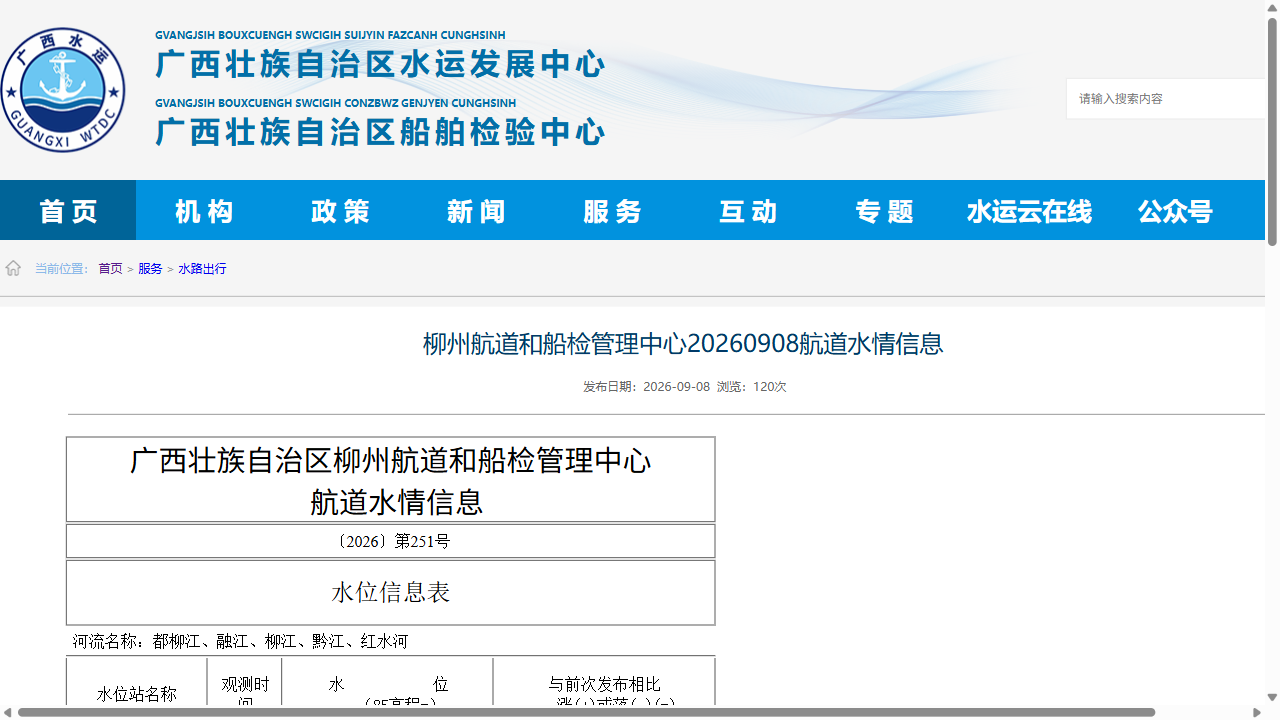
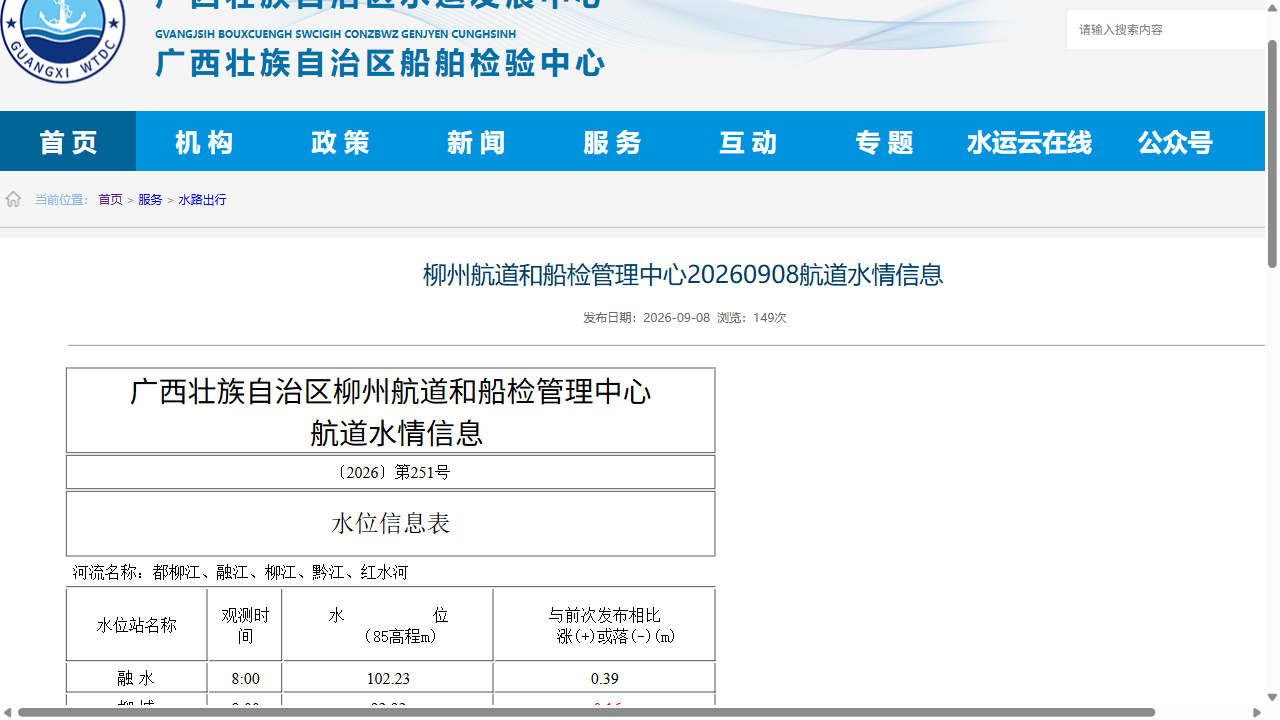
实现水库预警信息显示

diff --git a/water_level_report.html b/water_level_report.html
@@ -90,7 +90,7 @@
             font-weight: bold;
         }
         .warningStatus-value {
-            font-size: 30px;
+            font-size: 28px;
             font-weight: bold;
             color: red;
         }
@@ -124,13 +124,13 @@
         }
         .wz {
             position: absolute;
-            top: 32%;
-            left: 87%;
+            top: 52%;
+            left: 92.5%;
         }
         .jk {
             position: absolute;
             top: 52%;
-            left: 69%;  
+            left: 68%;  
         }
         .wx {
             position: absolute;
@@ -189,7 +189,7 @@
             <div class="status-item">
                 <span class="status-label">🚨水库预警：</span>
                 <span class="warningStatus-value">
-                    
+                     大藤峡枢纽、桂平枢纽、长洲枢纽出库流量更大，可能正在放水。请及时注意水位变化，加强船舶调度！
                 </span>
             </div>
             <div class="status-item">
@@ -202,9 +202,9 @@
         
         <div class="image-section">
             <div class="image-overlay-text wz status-red">5.86m▲</div>
-            <div class="image-overlay-text status-red" style="position: absolute; top: 41.4%; left: 78%;">======</div>
+            <div class="image-overlay-text status-red" style="position: absolute;top: 41.25%;left: 86.7%;">====</div>
             <div class="image-overlay-text jk status-blue">21.75m▼</div>
-            <div class="image-overlay-text status-blue" style="position: absolute; top: 41.4%; left: 65.2%;">===</div>
+            <div class="image-overlay-text status-blue" style="position: absolute; top: 41.4%; left: 64%;">==</div>
             <div class="image-overlay-text wx status-blue">59.38m▼</div>
             <div class="image-overlay-text status-blue" style="position: absolute; top: 18.9%; left: 23.2%;">===========</div>
             <div class="image-overlay-text lb status-blue">59.72m▼</div>
@@ -219,7 +219,10 @@
             <div class="image-overlay-text" style="position: absolute;top: 20%;left: 8.6%;font-size:200%"> </div>
             <div class="image-overlay-text" style="position: absolute; top: 65%; left: 12%;font-size:200%"> </div>
             <div class="image-overlay-text" style="position: absolute; top: 65%; left: 45%;font-size:200%"> </div>
-            <img src="river.png" alt="西江流域图">
+            <div class="image-overlay-text" style="position: absolute; top: 42.5%; left: 86.5%;font-size:200%">🌊</div>
+            <div class="image-overlay-text" style="position: absolute; top: 42.5%; left: 69.67%;font-size:200%">🌊</div>
+            <div class="image-overlay-text" style="position: absolute;top: 43%;left: 79%;font-size: 180%;">🌊</div>
+            <img src="river.jpg" alt="西江流域图">
         </div>
         
         <div class="table-section">
@@ -323,7 +326,7 @@
         </div>
         
         <div class="timestamp">
-            报告生成时间: 2026-09-08 15:55:49<br>
+            报告生成时间: 2026-09-08 17:16:30<br>
             数据记录数: 8 条
         </div>
     </div>

diff --git a/screenshot.py b/screenshot.py
@@ -117,7 +117,7 @@ def generate_html_report(data):
             font-weight: bold;
         }}
         .warningStatus-value {{
-            font-size: 30px;
+            font-size: 28px;
             font-weight: bold;
             color: red;
         }}
@@ -151,13 +151,13 @@ def generate_html_report(data):
         }}
         .wz {{
             position: absolute;
-            top: 32%;
-            left: 87%;
+            top: 52%;
+            left: 92.5%;
         }}
         .jk {{
             position: absolute;
             top: 52%;
-            left: 69%;  
+            left: 68%;  
         }}
         .wx {{
             position: absolute;
@@ -194,8 +194,9 @@ def generate_html_report(data):
 
     # 按时间排序数据
     sorted_data = sorted(data, key=lambda x: x['时间'])
+
     # 测试输出
-    print(sorted_data)
+    #print(sorted_data)
 
     # 获取最新数据的上游状态、所有站点状态
     if sorted_data:
@@ -232,11 +233,15 @@ def generate_html_report(data):
         latest_guigang_desc = sorted_data[-1].get('站点数据',{}).get('贵港', {}).get('情况', '暂无数据')
         latest_guigang_data = sorted_data[-1].get('站点数据',{}).get('贵港', {}).get('水位', '0')
         latest_guigang_change = sorted_data[-1].get('站点数据',{}).get('贵港', {}).get('变化值', '0')
-    else:
-        latest_upstream_color = 'blue'
-        latest_upstream_desc = '暂无数据'
-        latest_wuzhou_color = 'blue'
-        latest_wuzhou_desc = '暂无数据'
+
+        latest_datengxia_data = sorted_data[-1].get('枢纽数据',{}).get('大藤峡枢纽', {}).get('上游水位', '0')
+        latest_datengxia_fs = sorted_data[-1].get('枢纽数据',{}).get('大藤峡枢纽', {}).get('是否放水', '0')
+
+        latest_guiping_data = sorted_data[-1].get('枢纽数据',{}).get('桂平船闸', {}).get('上游水位', '0')
+        latest_guiping_fs = sorted_data[-1].get('枢纽数据',{}).get('桂平船闸', {}).get('是否放水', '0')
+
+        latest_changzhou_data = sorted_data[-1].get('枢纽数据',{}).get('长洲船闸', {}).get('上游水位', '0')
+        latest_changzhou_fs = sorted_data[-1].get('枢纽数据',{}).get('长洲船闸', {}).get('是否放水', '0')
 
     #计算预报值 如果变化幅度过小就上下略微波动 否则梧州预计变化值在上游最新总变化值0.35到0.65之间
     latest_wuzhou_data_float = float(latest_wuzhou_data)  # 转换为浮点数
@@ -415,6 +420,57 @@ def generate_html_report(data):
 
     if station_warning != ' ':
         station_warning += '请及时注意水位变化，加强船舶调度！'
+
+    #水库预警文字
+    reservoir_warning = ' '
+
+    latest_datengxia_wSymbol = ' '
+    latest_guiping_wSymbol = ' '
+    latest_changzhou_wSymbol = ' '
+    #水库是否需要水位警告符号
+    r1 = 0
+    if float(latest_datengxia_data) >= 60:
+        #<KEY> = '🚨'
+        reservoir_warning += '大藤峡枢纽'
+        r1 = 1
+    if float(latest_guiping_data) >= 31.5:
+        #<KEY> = '🚨'
+        if r1 != 0:
+            reservoir_warning += '、'
+        reservoir_warning += '桂平枢纽'
+        r1 = 1
+    if float(latest_changzhou_data) >= 31:
+        #<KEY> = '🚨'
+        if r1 != 0:
+            reservoir_warning += '、'
+        reservoir_warning += '长洲枢纽'
+        r1 = 1
+    if r1 != 0:
+        reservoir_warning += '水位高，可能开闸放水！'
+
+    #水库是否需要开闸预警
+    r2 = 0
+    if float(latest_datengxia_fs) == 0:
+        latest_datengxia_wSymbol = '🌊'
+        reservoir_warning += '大藤峡枢纽'
+        r2 = 1
+    if float(latest_guiping_fs) == 1:
+        latest_guiping_wSymbol = '🌊'
+        if r2 != 0:
+            reservoir_warning += '、'
+        reservoir_warning += '桂平枢纽'
+        r2 = 1
+    if float(latest_changzhou_fs) == 1:
+        latest_changzhou_wSymbol = '🌊'
+        if r2 != 0:
+            reservoir_warning += '、'
+        reservoir_warning += '长洲枢纽'
+        r2 = 1
+    if r2 != 0:
+        reservoir_warning += '出库流量更大，可能正在放水。'
+
+    if reservoir_warning != ' ':
+        reservoir_warning += '请及时注意水位变化，加强船舶调度！'
     
     # 添加状态显示区域
     html_content += f"""
@@ -443,7 +499,7 @@ def generate_html_report(data):
             <div class="status-item">
                 <span class="status-label">🚨水库预警：</span>
                 <span class="warningStatus-value">
-                    
+                    {reservoir_warning}
                 </span>
             </div>
             <div class="status-item">
@@ -456,9 +512,9 @@ def generate_html_report(data):
         
         <div class="image-section">
             <div class="image-overlay-text wz status-{latest_wuzhou_color}">{latest_wuzhou_data}m{latest_wuzhou_desc}</div>
-            <div class="image-overlay-text status-{latest_wuzhou_color}" style="position: absolute; top: 41.4%; left: 78%;">======</div>
+            <div class="image-overlay-text status-{latest_wuzhou_color}" style="position: absolute;top: 41.25%;left: 86.7%;">====</div>
             <div class="image-overlay-text jk status-{latest_jiangkou_color}">{latest_jiangkou_data}m{latest_jiangkou_desc}</div>
-            <div class="image-overlay-text status-{latest_jiangkou_color}" style="position: absolute; top: 41.4%; left: 65.2%;">===</div>
+            <div class="image-overlay-text status-{latest_jiangkou_color}" style="position: absolute; top: 41.4%; left: 64%;">==</div>
             <div class="image-overlay-text wx status-{latest_wuxuan_color}">{latest_wuxuan_data}m{latest_wuxuan_desc}</div>
             <div class="image-overlay-text status-{latest_wuxuan_color}" style="position: absolute; top: 18.9%; left: 23.2%;">===========</div>
             <div class="image-overlay-text lb status-{latest_laibing_color}">{latest_laibing_data}m{latest_laibing_desc}</div>
@@ -470,10 +526,13 @@ def generate_html_report(data):
             <div class="image-overlay-text" style="position: absolute; top: 42.5%; left: 86.5%;font-size:200%">{latest_wuzhou_wSymbol}</div>
             <div class="image-overlay-text" style="position: absolute; top: 42.5%; left: 69.67%;font-size:200%">{latest_jiangkou_wSymbol}</div>
             <div class="image-overlay-text" style="position: absolute; top: 20%; left: 37.9%;font-size:200%">{latest_wuxuan_wSymbol}</div>
-            <div class="image-overlay-text" style="position: absolute;top: 20%;left: 8.6%;font-size:200%">{latest_laibing_wSymbol}</div>
+            <div class="image-overlay-text" style="position: absolute; top: 20%; left: 8.6%;font-size:200%">{latest_laibing_wSymbol}</div>
             <div class="image-overlay-text" style="position: absolute; top: 65%; left: 12%;font-size:200%">{latest_luancheng_wSymbol}</div>
             <div class="image-overlay-text" style="position: absolute; top: 65%; left: 45%;font-size:200%">{latest_guigang_wSymbol}</div>
-            <img src="river.png" alt="西江流域图">
+            <div class="image-overlay-text" style="position: absolute; top: 42.5%; left: 86.5%;font-size:180%;writing-mode: vertical-rl;text-orientation: mixed">{latest_datengxia_wSymbol}</div>
+            <div class="image-overlay-text" style="position: absolute; top: 42.5%; left: 69.67%;font-size:180%;writing-mode: vertical-rl;text-orientation: mixed">{latest_guiping_wSymbol}</div>
+            <div class="image-overlay-text" style="position: absolute; top: 43%; left: 79%;font-size: 180%;writing-mode: vertical-rl;text-orientation: mixed">{latest_changzhou_wSymbol}</div>
+            <img src="river.jpg" alt="西江流域图">
         </div>
         
         <div class="table-section">
